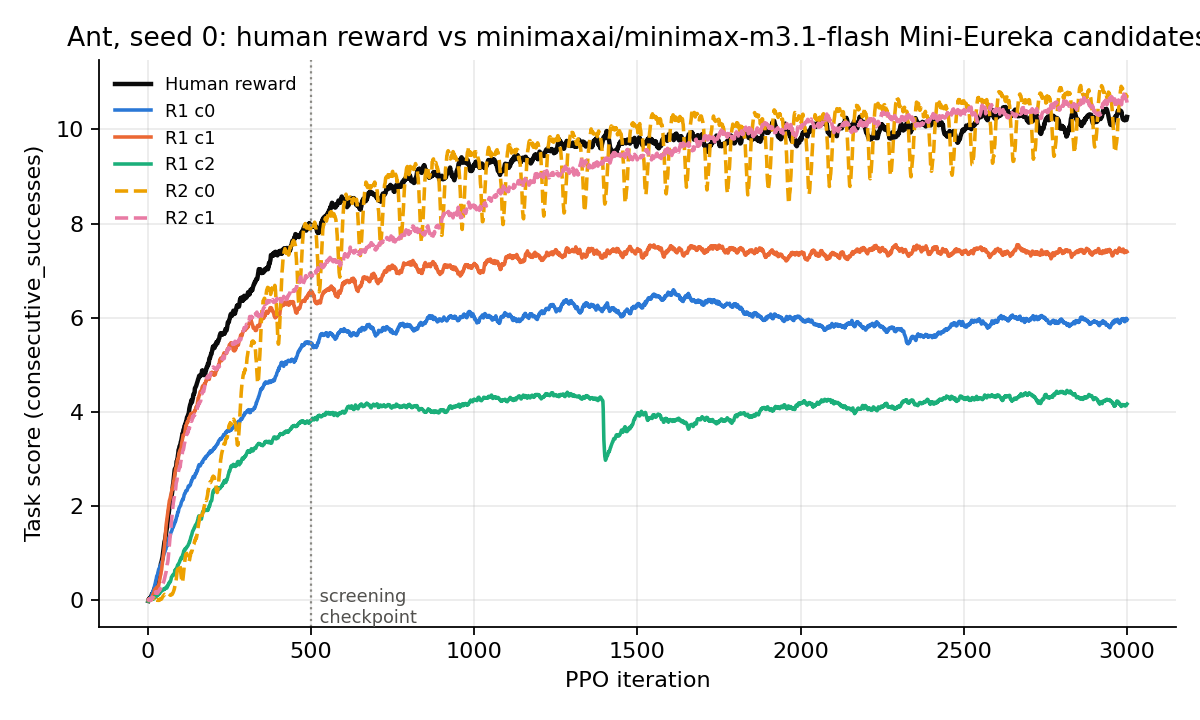
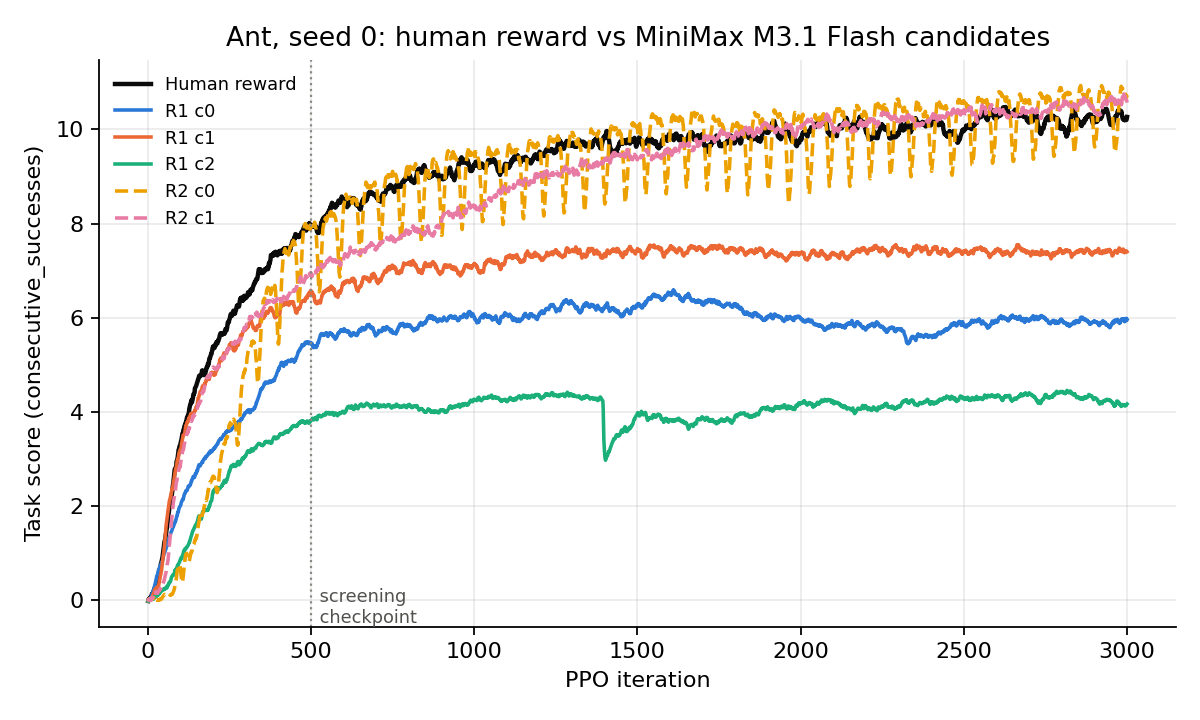
Add results report, regenerate figure 1 with a shorter title

Changed region(s): [[0.0617, 0.0306, 1.0, 0.0611]]

diff --git a/eureka_ab.py b/eureka_ab.py
@@ -482,7 +482,7 @@ def analyze():
     ax.axvline(500, color="#8a8984", lw=1, ls=":")
     ax.text(510, ax.get_ylim()[0], " screening\n checkpoint", color="#52514e", fontsize=8, va="bottom")
     ax.set(xlabel="PPO iteration", ylabel="Task score (consecutive_successes)",
-           title="Ant, seed 0: human reward vs %s Mini-Eureka candidates" % MODEL)
+           title="Ant, seed 0: human reward vs MiniMax M3.1 Flash candidates")
     ax.grid(alpha=0.25)
     for side in ("top", "right"):
         ax.spines[side].set_visible(False)

diff --git a/REPORT.md b/REPORT.md
@@ -1,0 +1,125 @@
+# Mini-Eureka on Ant with early screening: results
+
+Isaac Gym **Ant**, PPO (upstream `AntPPO`, 4,096 envs, 3,000 iterations, seed 0). Rewards are written by
+**MiniMax M3.1 Flash** (temperature 1.0) with Eureka's upstream prompts, code extraction, feedback and selection logic.
+"Score" is the environment's own forward-progress metric (`consecutive_successes`); a run's score is its **peak** over
+training, as in upstream Eureka. It has no fixed scale and is only comparable within this task.
+
+## Summary
+
+- The human reward scores **10.48** (seed 1: 10.33).
+- Round 1 (3 independent samples) scored 6.59, 7.55 and 4.46. Round 2 (2 samples, written after seeing the best Round-1
+  candidate's training feedback) scored **10.93** and **10.75**. The feedback step took the best from 72% to ~104% of the
+  human score. With one seed, that is "matches the human reward", not "beats it" (see Limitations).
+- Retrospective early screening at 500 of 3,000 iterations **saved 50% of the PPO compute (7,500 of 15,000
+  iterations) and kept 100% of the best reward**, picking the full-training winner in both rounds. Screening at 100 or
+  250 iterations picked the wrong Round-2 candidate (still 98% retained).
+- On a small extra pool of first-round samples, checkpoint screening at 250-500 iterations kept 96-100% of the best
+  score; asking the LLM to rank rewards before any training did not work (it ranked the best sample last).
+
+## 1. Human reward vs MiniMax candidates
+
+| Run | Peak score | Final score | Peak at iter | Score at 500 |
+| --- | ---: | ---: | ---: | ---: |
+| Human reward (seed 0) | 10.48 | 10.27 | 2628 | 7.93 |
+| Human reward (seed 1) | 10.33 | 9.80 | 2569 | – |
+| Round 1, cand 0 | 6.59 | 5.96 | 1611 | 5.45 |
+| Round 1, cand 1 | 7.55 | 7.40 | 2292 | 6.56 |
+| Round 1, cand 2 | 4.46 | 4.17 | 2816 | 3.81 |
+| Round 2, cand 0 | **10.93** | 10.75 | 2858 | 7.91 |
+| Round 2, cand 1 | 10.75 | 10.57 | 2990 | 6.95 |
+
+![Learning curves](results/exp_c_screening_minimax/fig1_learning_curves.png)
+
+Figure 1. Round-1 candidates plateau at 4-7.5. Both Round-2 candidates climb to the human curve. Round-2 cand 0 starts
+slowly, then oscillates by about 1 point from iteration ~500 on; its peak (10.93) is a high point of that oscillation,
+while its final value (10.75) is closer to the human final (10.27) than the peak suggests.
+
+## 2. Search progression
+
+- **Round 1** gets only the task description and environment code; three independent samples.
+- **Round 2** is the upstream reflection prompt built from the best Round-1 candidate (cand 1): its reward code plus
+  per-component statistics over training. Two samples.
+- The best score moved 7.55 -> 10.93. Round 2 trained roughly as well as the human reward, and both Round-2 samples beat
+  every Round-1 sample.
+- Cost: one PPO run is 3,000 iterations = 196,608,000 environment steps (704 s alone on an A100; ~1,750 s when 3-4 runs
+  share one GPU). Each LLM sample took 4-9 minutes and ~8.5k completion tokens on the hosted endpoint.
+
+## 3. Early-screening simulation (Experiment C)
+
+Rule: within each round, rank candidates by their best score up to a checkpoint, "reject" all but the top one, and
+count only the iterations actually run. Compare with the full 3,000-iteration winner. The 500-iteration checkpoint was
+fixed in advance; the others are exploratory.
+
+| Checkpoint | Compute saved | Best reward retained | Round 1 pick correct | Round 2 pick correct |
+| ---: | ---: | ---: | :-: | :-: |
+| 100 | 58% | 98.3% | yes | no |
+| 250 | 55% | 98.3% | yes | no |
+| **500 (primary)** | **50%** | **100%** | yes | yes |
+| 1000 | 40% | 100% | yes | yes |
+| 1500 | 30% | 100% | yes | yes |
+| 3000 | 0% | 100% | yes | yes |
+
+Full search = 15,000 iterations (983,040,000 env steps); screening at 500 = 7,500 iterations (491,520,000 steps).
+At 500 iterations Round-2 cand 0 led cand 1 by about 1.0 point (8.00 vs 6.96 best-through-500) and Round-1 cand 1 led by
+1.1 (6.58 vs 5.48).
+
+![Screening vs checkpoint](results/exp_c_screening_minimax/fig2_screening.png)
+
+Figure 2. Left: best reward kept versus the full search. Right: compute saved. Dotted line = primary checkpoint.
+
+**Caveat on Round 2.** Round 2 was generated using feedback from the *fully trained* Round-1 winner. In a real
+screened search that feedback would come from a candidate trained only to the checkpoint, so this simulation does not
+show that the screened search would have followed the same trajectory.
+
+## 4. Extra first-round samples (exploratory)
+
+To test the rules on more candidates I trained 6 additional first-round samples (the pool generation timed out before
+reaching its target of 13), giving a pool of 9 with the three Round-1 candidates. Pool scores: 10.73 (cand 3), 9.41, 9.25,
+6.95, 5.28, 0.01 (cand 5 collapsed). Every rule is evaluated by drawing sub-pools and checking what it keeps.
+
+| Rule | 4-candidate sub-pools (126): best kept / true winner kept / compute saved | Full pool of 9: best kept / winner kept / saved |
+| --- | :-: | :-: |
+| Checkpoint 100, keep 1 | 87% / 33% / 72% | 70% / no / 86% |
+| Checkpoint 250, keep 1 | 93% / 61% / 69% | 100% / yes / 81% |
+| Checkpoint 500, keep 1 | 97% / 72% / 62% | 100% / yes / 74% |
+| Checkpoint 500, keep 2 | 99% / 87% / 42% | 100% / yes / 65% |
+| Successive halving 250 -> 1000 | 93% / 61% / 69% | 100% / yes / 79% |
+| LLM ranks first, train top 1/4 | 56% / 5% / 75% | 65% / no / 78% |
+| LLM ranks first, train top 1/2 | 83% / 31% / 50% | 88% / no / 56% |
+| Zero-training probe, train top 1/4 | 70% / 17% / 75% | 65% / no / 78% |
+| Zero-training probe, train top 1/2 | 88% / 50% / 50% | 100% / yes / 56% |
+| Train one at random | 69% / 25% / 75% | 62% / 11% / 89% |
+
+Reading it: waiting 250-500 iterations before judging is clearly better than random. Judging at 100 iterations is not
+reliable. The LLM's blind ranking was no better than random and put the best candidate (cand 3) last of 9. The probe
+(scoring each reward on scripted and sine-wave gaits in one simulation, no PPO) was weak at the top quarter, but its top
+half kept the winner on the full pool. The sub-pools overlap, so they are not independent samples, and the full pool is a
+single draw. See `results/exp_d_pool_minimax/fig_screening_rules.png` and `analysis.json`.
+
+## 5. Limitations
+
+- **One seed per candidate.** Seed 1 of the human reward differs from seed 0 by 0.14 at the peak, and the final values
+  differ by 0.47. Candidate-vs-human gaps of this size (10.93 vs 10.48) are within that noise. A retrain of the earlier
+  (now removed) local-model arm on seed 1 moved candidate scores by 1-2 points. The MiniMax candidates were not retrained
+  on a second seed.
+- **Few candidates.** 5 in the main search, 9 in the pool. The screening percentages rest on this. The sub-pool rows
+  overlap.
+- **Peak-based selection.** The score is the maximum over 3,000 iterations of a noisy curve, which favours oscillating runs.
+- **Retrospective, not live.** All screening was simulated on finished curves. Round 2 used full-training Round-1 feedback.
+- **Different LLM from the paper.** MiniMax M3.1 Flash, not GPT-4. Reasoning length and hosted-endpoint behaviour differ
+  (the reward samples came from NVIDIA's hosted endpoint; only the pool's blind LLM ranking was run through the Vercel
+  AI Gateway, same model, after the NVIDIA endpoint hung).
+- **Pool generation timed out** with 6 of 13 samples; invalid or failed candidates are kept, not regenerated.
+- A local-model arm (Qwen3.8-27B) was also run and then removed from the project; it is not reported here and is kept in
+  git under the tag `pre-qwen-removal`.
+
+## 6. Where things are
+
+| What | Where |
+| --- | --- |
+| Human baselines | `results/exp_a_human_3000`, `results/exp_a_human_3000_seed1` |
+| Search (prompts, code, curves, logs) | `results/exp_b_minimax/round{1,2}/cand*` |
+| Screening analysis and figures 1-2 | `results/exp_c_screening_minimax` |
+| Extra pool, LLM ranking, rule comparison | `results/exp_d_pool_minimax`, `results/probe` |
+| Code | `eureka_ab.py`, `pool.py`, `rank.py`, `probe.py`, `eureka.sbatch` |

diff --git a/README.md b/README.md
@@ -4,6 +4,8 @@ MS CS thesis code reproducing the Ant task of [Eureka](https://github.com/eureka
 (`Eureka/`, upstream commit `9eee428`, unmodified) and testing early screening of LLM-generated rewards.
 Everything runs on Northwestern Quest (A100, Isaac Gym Preview 4); nothing trains on this Mac.
 
+Results write-up: [`REPORT.md`](REPORT.md).
+
 ## Files
 
 | File | Purpose |
